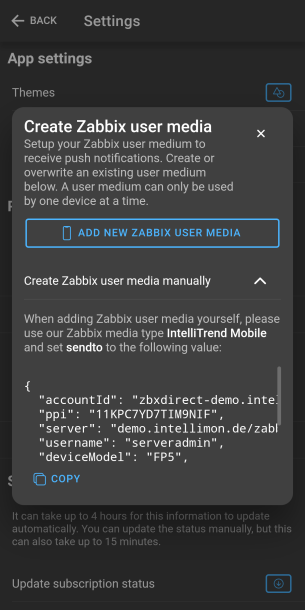
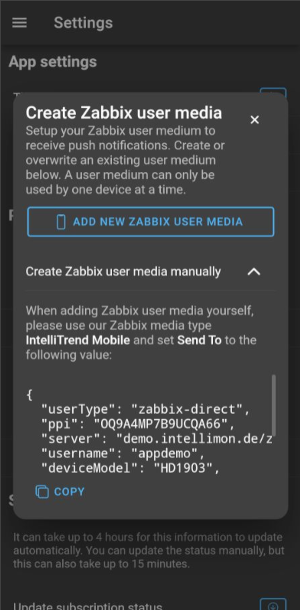
[CHG] Updated media type and readme

Changed region(s): [[0.0, 0.0, 0.96, 1.0], [0.84, 0.9344, 0.96, 1.0], [0.81, 0.4361, 0.87, 0.4672]]

diff --git a/README.md b/README.md
@@ -159,6 +159,11 @@ If your alert shows up with any other error, try again after some time. If the i
 
 In case your alert does not show up in this list, your trigger action configuration is incorrect. You can validate that the setup works by performing a manual test as described below.
 
+#### When do I need to update my Zabbix user media?
+Your Zabbix user media requires an update whenever your persistent push identifier (PPI) changes. This can occurr when uninstalling, reinstalling, or updating the IntelliMon Mobile app and after using the `Reset device identifier` option.
+
+If your PPI has changed, simply sign in to an account on your Zabbix server using the IntelliMon Mobile app, navigate to the `Settings` page and update your user media by tapping the `User media` item and then selecting your device in the device selection modal as described in `Step 3`.
+
 #### How can I test the IntelliTrend Mobile media type?
 To test the IntelliTrend Mobile media type, begin by navigating to `Alerts` &rarr; `Media types` (Zabbix 6.4) or `Administration` &rarr; `Media types` (Zabbix 6.0) and clicking the test button for the IntelliTrend Mobile media type.
 This should cause the following modal to open:
